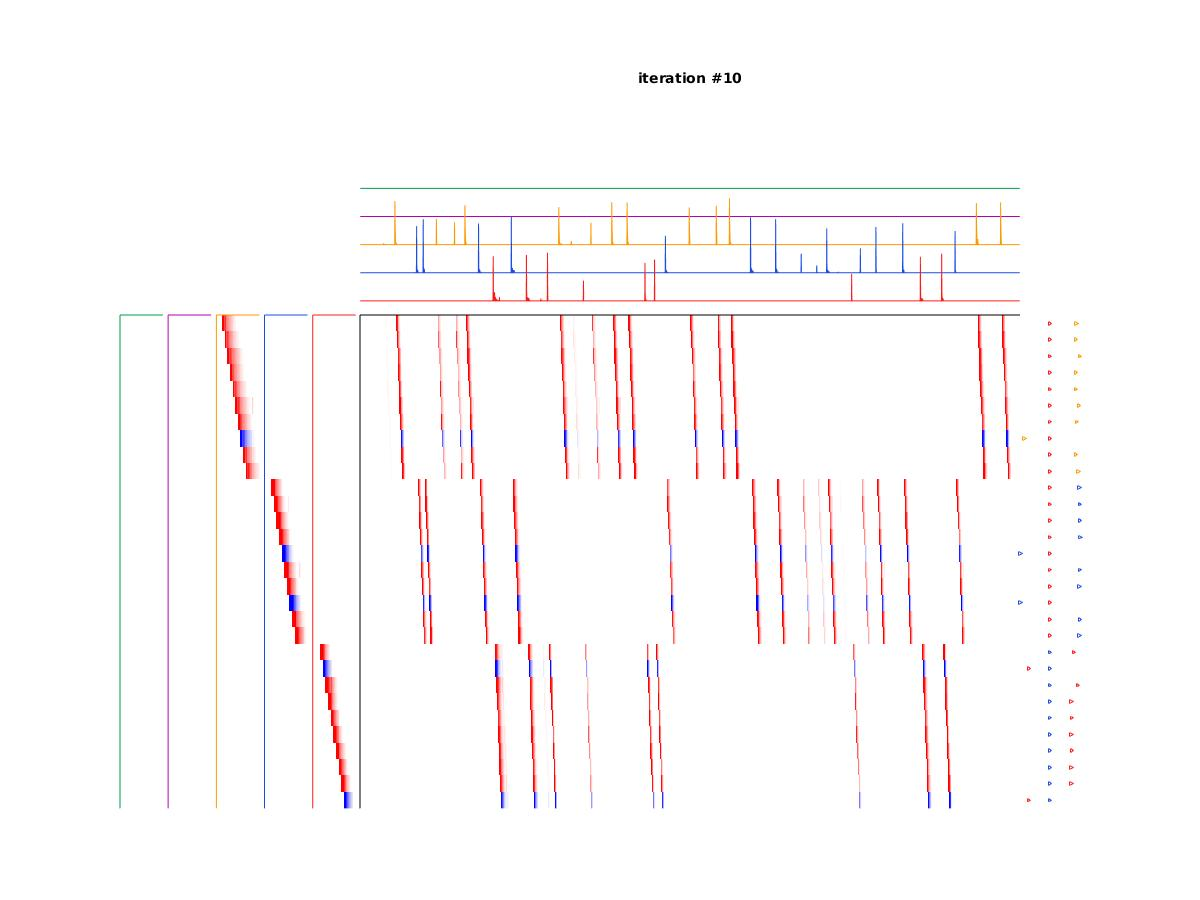
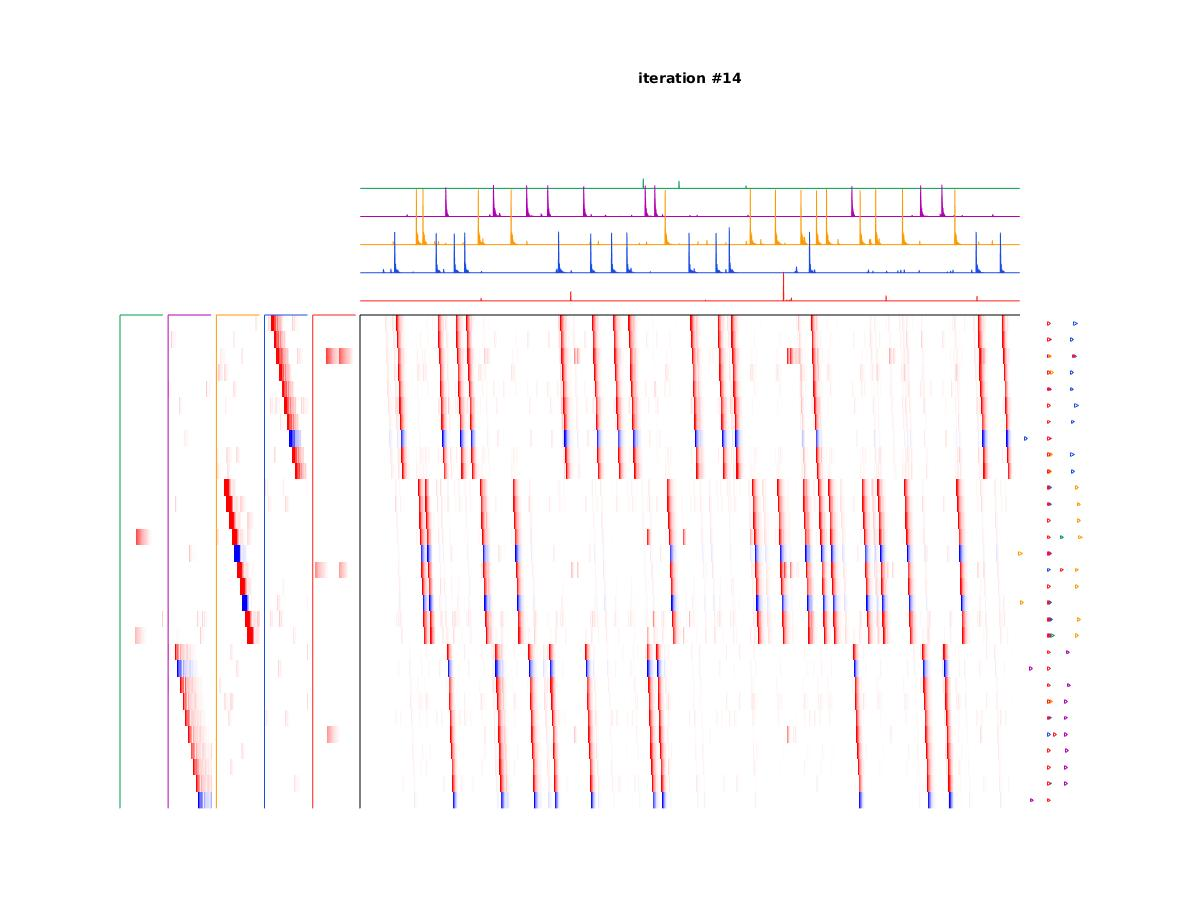
Update BayesOpt function to be more smooth

diff --git a/choose_lambda_bayesopt.m b/choose_lambda_bayesopt.m
@@ -24,4 +24,4 @@ lambda_var = optimizableVariable('lambda', [1e-4, 1e-1], 'Transform', 'log');
 lambdaW_var = optimizableVariable('lambdaL1W', [1e-3, 1], 'Transform', 'log');
 alpha_var = optimizableVariable('alpha', [1e-6, 1e-2], 'Transform', 'log');
 fun = @(x)compute_error_balance_score(X,K,L,x.lambda,lambdaL1H,x.lambdaL1W,x.alpha);
-results = bayesopt(fun, [lambda_var,lambdaW_var,alpha_var],'AcquisitionFunctionName','expected-improvement-plus','UseParallel',true)
+results = bayesopt(fun, [lambda_var,lambdaW_var,alpha_var],'AcquisitionFunctionName','expected-improvement-plus','UseParallel',true, 'MaxObjectiveEvaluations',100)

diff --git a/compute_error_balance_score.m b/compute_error_balance_score.m
@@ -13,5 +13,5 @@ recon_error = recon_error/2 + epsilon;
 reg_cross = reg_cross*lambda + epsilon;
 reg_W = reg_W*lambdaL1W + epsilon;
 reg_H = reg_H*lambdaL1H + epsilon;
-score = (recon_error+reg_cross+reg_W)/(3*(recon_error*reg_cross*reg_W)^(1/3));
+score = (recon_error^3 + reg_cross^3 + reg_W^3)/3 / ((recon_error+reg_cross+reg_W)/3)^3;
 end

diff --git a/demo.m b/demo.m
@@ -30,10 +30,10 @@ X = X/nuc_norm*size(X,1);
 %% Fit with FlexMF
 K = 5;
 L = 50;
-lambda = 0.034336;
-alpha = 0.00087262;
+lambda = 0.002122;
+alpha = 1.6652e-05;
 lambdaL1H = 0;
-lambdaL1W = 0.11179;
+lambdaL1W = 0.024848;
 shg; clf
 display('Running FlexMF on simulated data (3 simulated sequences + noise)')
 tic
